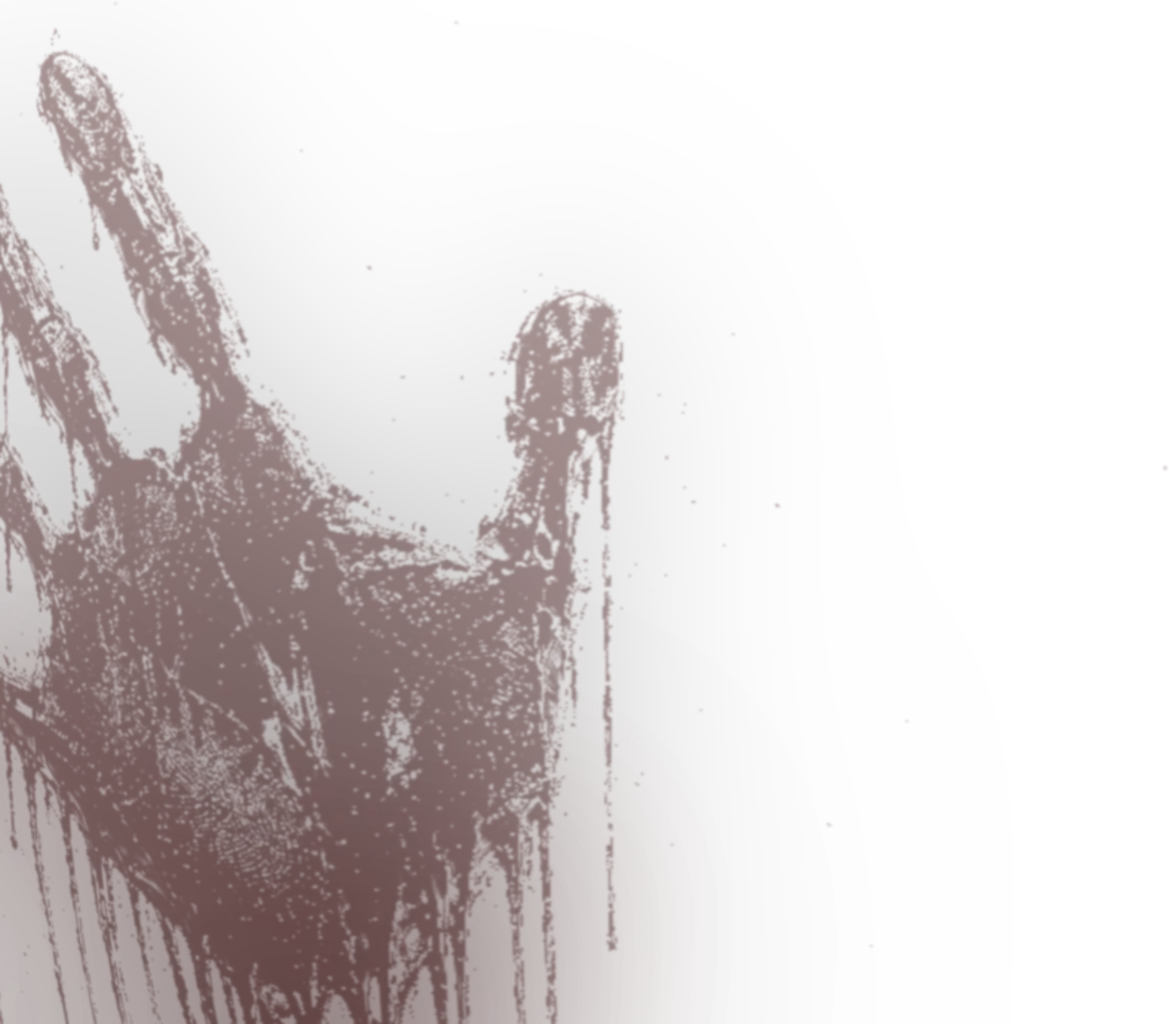
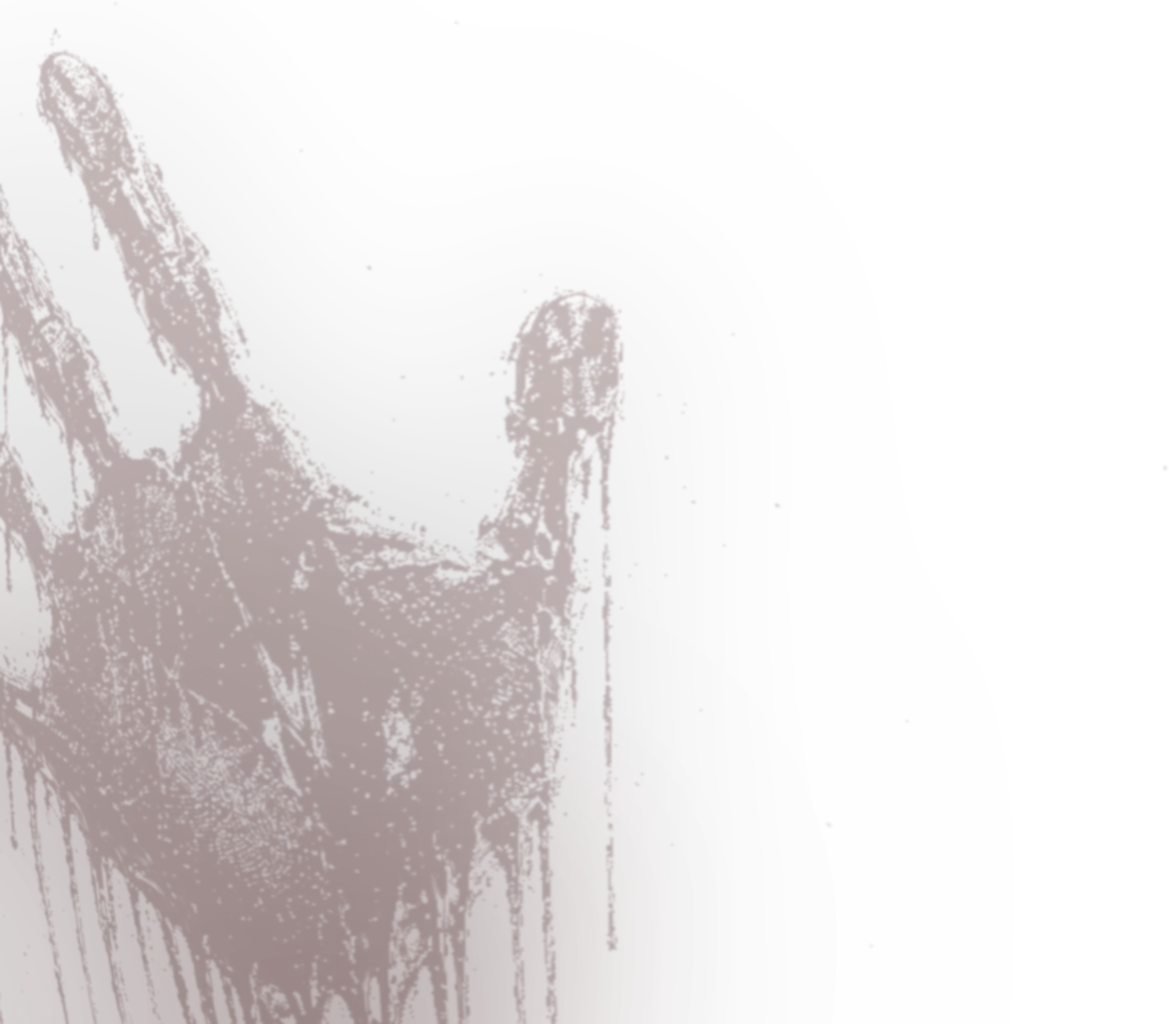
update website

Changed region(s): [[0.0, 0.0625, 0.5543, 1.0]]

diff --git a/assets/css/style.css b/assets/css/style.css
@@ -330,8 +330,9 @@ body {
     right: 0;
     z-index: 1;
     display: block;
-    width: 883px;
-    height: 357px;
+    width: 100%;
+    height: 100%;
+    background-size: cover;
     max-width: none;
 }
 
@@ -939,6 +940,7 @@ button:hover>span {
 .stats-col .stat-value {
     font-family: 'Pono 088', 'IBM Plex Mono', monospace;
     font-size: 36px;
+    line-height: 1.1;
 }
 
 /* Card & Panel Bases */
@@ -1710,16 +1712,48 @@ button:hover>span {
 
 /* === FOOTER & CAT === */
 .footer {
+    --footer-rail-inset: max(clamp(16px, 3vw, 32px), calc((100vw - var(--content-max-width)) / 2));
     position: relative;
     display: flex;
     align-items: center;
     justify-content: flex-end;
     min-height: 208px;
-    padding: 32px clamp(32px, 6vw, 72px) 44px;
+    padding: 32px var(--footer-rail-inset) 44px;
     background-color: rgba(0, 0, 0, 0.50);
     border-top: 1px solid rgba(255, 184, 54, 0.18);
     box-shadow: inset 0 32px 32px rgba(0, 0, 0, 0.24);
-    isolation: isolate;
+}
+
+.site-design-by {
+    position: absolute;
+    left: var(--footer-rail-inset);
+    bottom: 32px;
+    z-index: 2147483647;
+    display: flex;
+    flex-direction: row;
+    align-items: center;
+    justify-content: center;
+    gap: 12px;
+    font-family: var(--font-mono);
+    font-size: 11px;
+    color: var(--amber);
+    line-height: 1.35;
+    text-align: center;
+    opacity: 0.72;
+}
+
+.site-design-by span {
+    letter-spacing: 0.1em;
+    text-transform: uppercase;
+}
+
+.ph-logo {
+    display: block;
+    width: auto;
+    height: 48px;
+    object-fit: contain;
+    image-rendering: crisp-edges;
+    animation: socialLogoPulse 1.9s ease-in-out infinite;
 }
 
 .footer::before,
@@ -1739,13 +1773,14 @@ button:hover>span {
 }
 
 .cat {
-    position: relative;
+    position: absolute;
+    right: var(--footer-rail-inset);
+    bottom: 32px;
     z-index: 1;
     image-rendering: crisp-edges;
     image-rendering: pixelated;
     width: 128px;
     height: 128px;
-    margin-left: auto;
     cursor: help;
     contain: layout;
 }
@@ -1820,7 +1855,7 @@ button:hover>span {
 .cat-bubble {
     position: absolute;
     right: calc(100% + 14px);
-    bottom: 34px;
+    bottom: 52px;
     z-index: 2;
     --cat-bubble-crt-filter: brightness(0) saturate(100%) invert(97%) sepia(11%) saturate(650%) hue-rotate(330deg) brightness(106%) contrast(104%) ;
     display: flex;
@@ -2602,12 +2637,24 @@ button:hover>span {
 
     .footer {
         min-height: 210px;
-        padding: 34px 20px 52px;
+        padding: 34px var(--footer-rail-inset) 52px;
+    }
+
+    .site-design-by {
+        bottom: 24px;
+        gap: 8px;
+        font-size: 9px;
+    }
+
+    .ph-logo {
+        height: 32px;
     }
 
     .cat {
         width: 80px;
         height: 80px;
+        right: var(--footer-rail-inset);
+        bottom: 24px;
         margin-right: 0;
     }
 
@@ -2632,7 +2679,7 @@ button:hover>span {
 
     .cat-bubble {
         right: calc(100% + 10px);
-        bottom: 28px;
+        bottom: 42px;
         min-width: 220px;
         max-width: calc(100vw - 132px);
         padding: 0 10px 24px;

diff --git a/index.html b/index.html
@@ -13,7 +13,7 @@
     <link rel="preload" href="assets/img/background/bearbait-banner.webp" as="image" type="image/webp"
         fetchpriority="high">
     <link rel="preload" href="assets/img/logos/bearbait-official.png" as="image" fetchpriority="high">
-    <link rel="preload" href="assets/img/crt/bearbait-CRT-reflection.png" as="image">
+    <link rel="preload" href="assets/img/crt/bearbait-CRT-reflection.webp" as="image">
     <link rel="preload" href="assets/img/crt/bearbait-CRT-handprint.webp" as="image" type="image/webp"
         media="(min-width: 789px)">
     <link rel="preload" href="assets/img/crt/bearbait-CRT-handprint-mobile.webp" as="image" type="image/webp"
@@ -116,7 +116,7 @@
                         <span>Contact</span>
                     </a>
                     <button class="nav-link nav-logout" type="button">
-                        <span>System Logout</span>
+                        <span>Logout</span>
                     </button>
                 </nav>
 
@@ -192,12 +192,12 @@
                             <span class="stat-label">TikTok followers</span>
                         </div>
                         <div class="stat-row">
-                            <span class="stat-value">Daily</span>
-                            <span class="stat-label">science news, AI, organoids, and bio-horror facts</span>
+                            <span class="stat-value">65k+</span>
+                            <span class="stat-label">YouTube subscribers and growing</span>
                         </div>
                         <div class="stat-row">
-                            <span class="stat-value">Lab</span>
-                            <span class="stat-label">molecular biology and university education</span>
+                            <span class="stat-value">Daily Videos</span>
+                            <span class="stat-label">science news, AI technology, brainorganoids, and bio-horror facts</span>
                         </div>
                     </div>
 
@@ -368,6 +368,10 @@
             </section>
 
             <footer class="footer">
+                <div class="site-design-by">
+                    <span>Site design by</span>
+                    <img class="ph-logo" src="assets/img/logos/purehavuk.svg" alt="PureHavuk" loading="lazy" decoding="async">
+                </div>
                 <div class="cat" id="cat" tabindex="0" role="button" aria-label="A little cat">
                     <div class="cat-bubble" id="cat-bubble" aria-live="polite"></div>
                     <img class="cat-img cat-idle" src="assets/img/cat/zeroday.png" alt="" width="128" height="128"

diff --git a/assets/js/script.js b/assets/js/script.js
@@ -151,9 +151,9 @@ OPEN "OUTBOUND RELAY",8,1
         'SUCCESSFUL LOGOUT LEADS TO YOUR DOOM'
     ];
     const logoutJokeQuotes = [
-        'YOU REALLY THOUGHT I WOULD OPEN THE DOOR?',
-        'THE EXIT IS ON ITS LUNCH BREAK',
-        'NICE TRY. I LIVE IN THE BUTTON NOW',
+        'YOU REALLY WANT TO OPEN THIS CAN OF WORMS?',
+        'I WILL CONTINUE MOVING THE GOALPOST',
+        'NICE TRY, BUT NOT',
         'I FILED YOUR LOGOUT REQUEST UNDER NO',
         'PLEASE ENJOY YOUR PERMANENT VISIT',
         'YOUR ESCAPE PROGRESS HAS BEEN DELETED',

diff --git a/assets/js/cat.js b/assets/js/cat.js
@@ -186,7 +186,7 @@
         var catRect = catEl.getBoundingClientRect();
         var mobile = window.matchMedia('(max-width: 600px)').matches;
         var gap = mobile ? 10 : 14;
-        var bottom = mobile ? 28 : 34;
+        var bottom = mobile ? 42 : 52;
 
         bubbleEl.style.right = (window.innerWidth - catRect.left + gap) + 'px';
         bubbleEl.style.bottom = (window.innerHeight - catRect.bottom + bottom) + 'px';
